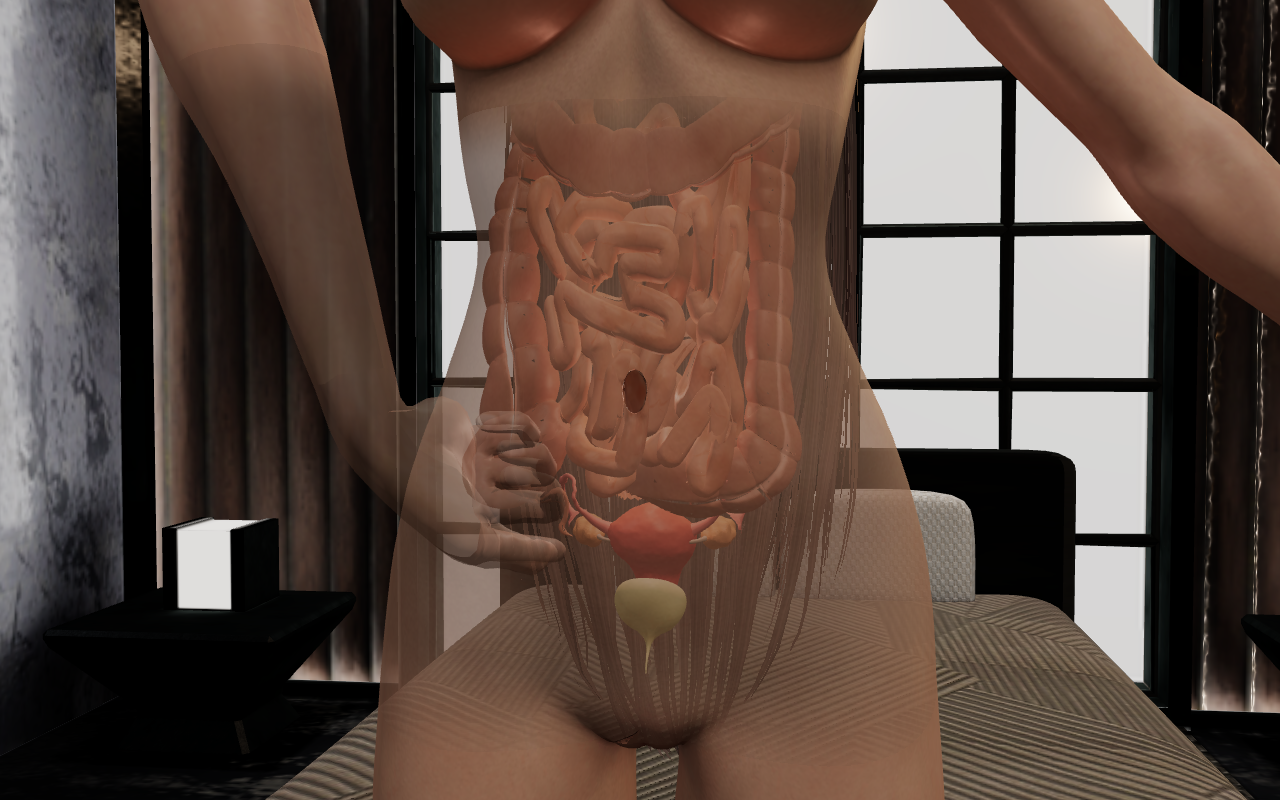
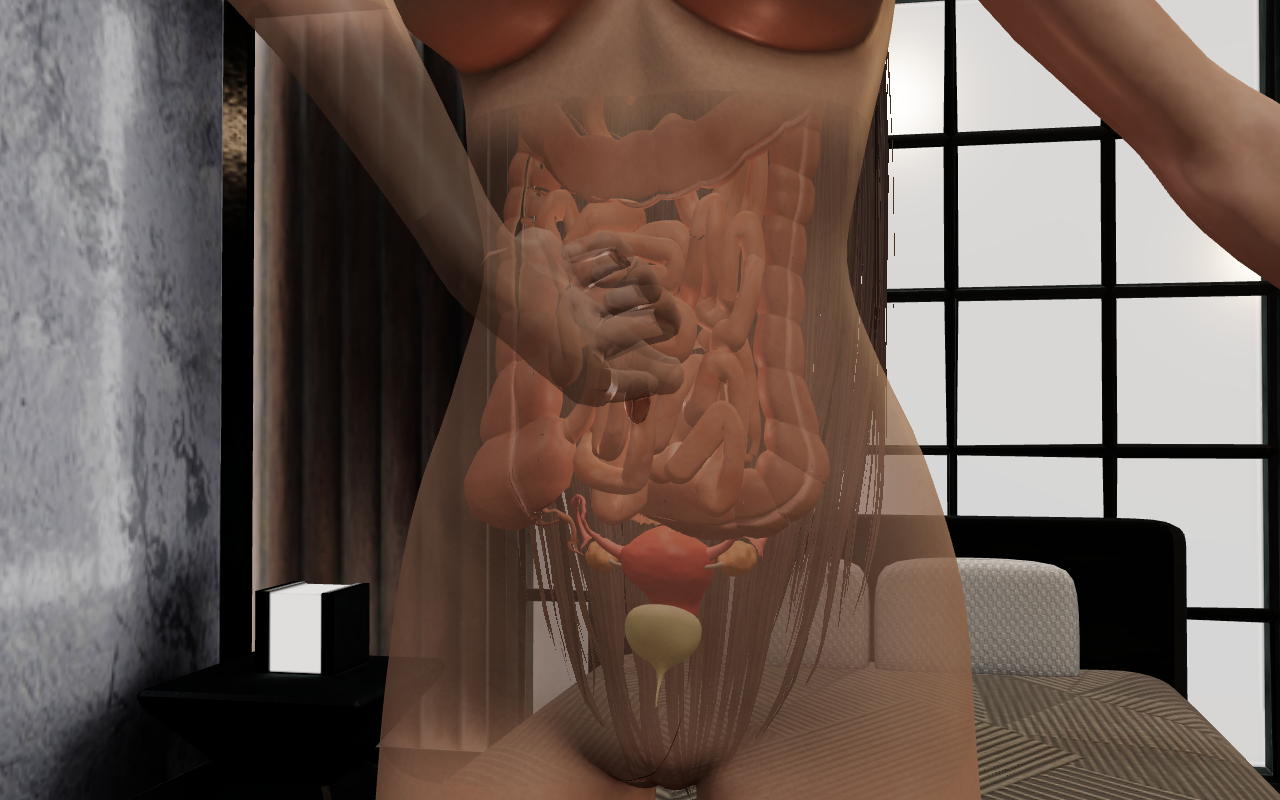
Export from Grok

diff --git a/src/components/studio/figure.tsx b/src/components/studio/figure.tsx
@@ -2023,6 +2023,7 @@ function FittedFigure({
           controlsRef.current.target.copy(setup.navel);
           controlsRef.current.update();
         }
+        return camera.position.toArray();
       };
       vela.frameArm = () => {
         camera.position.set(0.28, 1.12, 1.15);
@@ -2031,6 +2032,7 @@ function FittedFigure({
           controlsRef.current.target.set(setup.navel.x, setup.navel.y + 0.04, setup.navel.z);
           controlsRef.current.update();
         }
+        return camera.position.toArray();
       };
       vela.dumpArm = () => {
         const names = [
